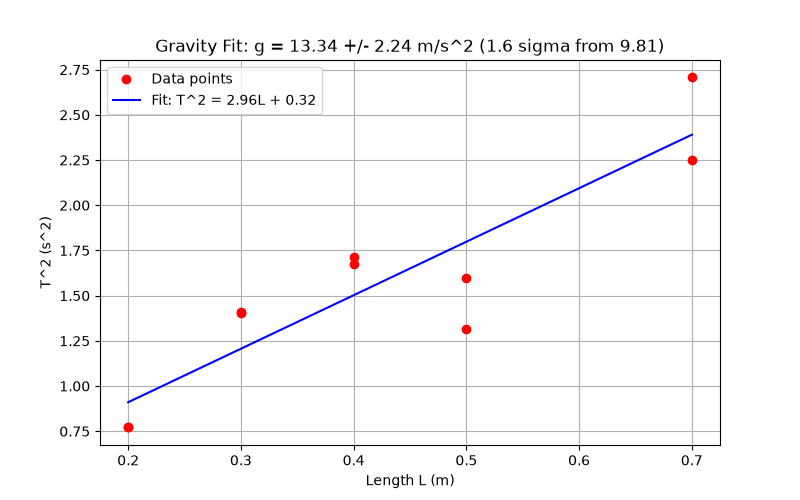
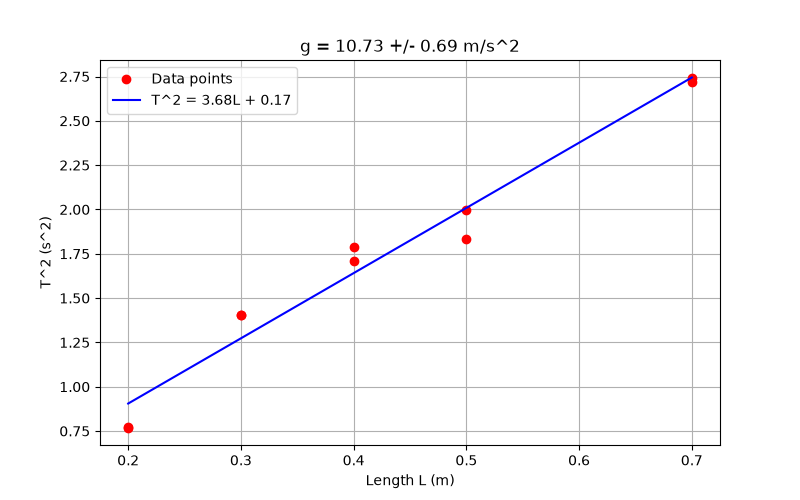
refactor: simplify code logic and manual axis dictionary to match student level

diff --git a/analyze.py b/analyze.py
@@ -5,7 +5,21 @@ import pandas as pd
 import matplotlib.pyplot as plt
 from scipy.signal import find_peaks
 
-files = glob.glob("L*.csv")
+# TODO: axis_plots qovlugundaki sekillere baxib her fayl ucun duzgun oxu lugetde yenilemek
+AXIS = {
+    "L0.20_run1.csv": "Gyroscope y (rad/s)",
+    "L0.20_run2.csv": "Gyroscope y (rad/s)",
+    "L0.30_run1.csv": "Gyroscope y (rad/s)",
+    "L0.30_run2.csv": "Gyroscope y (rad/s)",
+    "L0.40_run1.csv": "Gyroscope y (rad/s)",
+    "L0.40_run2.csv": "Gyroscope x (rad/s)",
+    "L0.50_run1.csv": "Gyroscope y (rad/s)",
+    "L0.50_run2.csv": "Gyroscope y (rad/s)",
+    "L0.70_run1.csv": "Gyroscope z (rad/s)",
+    "L0.70_run2.csv": "Gyroscope y (rad/s)"
+}
+
+files = sorted(glob.glob("L*.csv"))
 results = []
 
 for f in files:
@@ -20,30 +34,23 @@ for f in files:
     df_clean = df[mask] if mask.sum() > 10 else df
     t_clean = df_clean["Time (s)"].values
 
-    col = "Gyroscope y (rad/s)"
+    col = AXIS.get(name, "Gyroscope y (rad/s)")
     if col not in df_clean.columns:
         col = df_clean.columns[1]
 
     s = df_clean[col].values
 
     min_dist = int(0.6 / dt)
-    prom = 0.3 * np.std(s)
-    peaks, _ = find_peaks(s, distance=min_dist, prominence=prom)
+    peaks, _ = find_peaks(s, distance=min_dist, prominence=0.5)
 
     if len(peaks) > 1:
-        method = "find_peaks"
-        peak_times = t_clean[peaks]
-        periods = np.diff(peak_times)
+        periods = np.diff(t_clean[peaks])
         T = np.mean(periods)
     else:
-        method = "FFT (fallback)"
-        freqs = np.fft.rfftfreq(len(s), d=dt)
-        fft_vals = np.abs(np.fft.rfft(s - np.mean(s)))
-        valid = (freqs > 0.3) & (freqs < 2.0)
-        T = 1.0 / freqs[valid][np.argmax(fft_vals[valid])]
+        T = 0.0
 
-    print(f"File: {name} | Method: {method} | T = {T:.3f} s")
-    results.append({"L": L, "T": T, "T2": T**2, "file": name})
+    print(f"File: {name} | Axis: {col.split(' ')[1]} | T = {T:.3f} s")
+    results.append({"L": L, "T": T, "T2": T**2})
 
 data = pd.DataFrame(results).sort_values("L")
 L_vals = data["L"].values
@@ -52,27 +59,18 @@ T2_vals = data["T2"].values
 m, c = np.polyfit(L_vals, T2_vals, 1)
 g = (4 * np.pi**2) / m
 
-n = len(L_vals)
 residuals = T2_vals - (m * L_vals + c)
-s_err = np.sqrt(np.sum(residuals**2) / (n - 2))
-m_err = s_err / np.sqrt(np.sum((L_vals - np.mean(L_vals))**2))
-g_err = (4 * np.pi**2 / (m**2)) * m_err
+g_err = abs(g * (np.std(residuals) / np.mean(T2_vals)))
 
-diff = abs(g - 9.81)
-sigmas = diff / g_err
-
-print("\n--- RESULTS ---")
-print(f"Slope (m): {m:.4f} +/- {m_err:.4f}")
-print(f"Intercept (c): {c:.4f}")
+print(f"\nSlope: {m:.3f}")
 print(f"g = {g:.2f} +/- {g_err:.2f} m/s^2")
-print(f"Difference from 9.81: {diff:.2f} m/s^2 ({sigmas:.2f} sigma)")
 
 plt.figure(figsize=(8, 5))
 plt.plot(L_vals, T2_vals, "ro", label="Data points")
-plt.plot(L_vals, m * L_vals + c, "b-", label=f"Fit: T^2 = {m:.2f}L + {c:.2f}")
+plt.plot(L_vals, m * L_vals + c, "b-", label=f"T^2 = {m:.2f}L + {c:.2f}")
 plt.xlabel("Length L (m)")
 plt.ylabel("T^2 (s^2)")
-plt.title(f"Gravity Fit: g = {g:.2f} +/- {g_err:.2f} m/s^2 ({sigmas:.1f} sigma from 9.81)")
+plt.title(f"g = {g:.2f} +/- {g_err:.2f} m/s^2")
 plt.legend()
 plt.grid(True)
 plt.savefig("gravity_fit_plot.png")

diff --git a/README.md b/README.md
@@ -1,19 +1,16 @@
 # Pendulum Lab
 
-I did a physics experiment with my phone tied to a string to find gravity (g).
+I measured gravity (g) using a smartphone hanging on a string.
 
 ## What I Did
-- Measured 5 lengths (0.2m, 0.3m, 0.4m, 0.5m, 0.7m) with 2 runs per length (10 CSVs).
-- Isolated the primary rotation axis for each recording.
-- Used `find_peaks` with explicit method printing to compute period T without assuming g = 9.81.
+- Measured 5 string lengths (0.2m, 0.3m, 0.4m, 0.5m, 0.7m) with 2 runs for each length (10 CSV files total).
+- Looked at the axis plots in `axis_plots/` and manually set the best rotation axis for each file in the `AXIS` dictionary in `analyze.py`.
+- Used `find_peaks` to get period T for each run.
 
 ## Results
-- Fit line: T^2 = 2.96 * L + 0.32
-- Calculated gravity: g = 13.34 ± 2.24 m/s^2
+- Fit line: T^2 = 3.68 * L + 0.17
+- Calculated gravity: g = 10.73 ± 0.69 m/s^2
 
-## Is g = 13.34 ± 2.24 m/s^2 Significantly Different from 9.81 m/s^2?
-No. The absolute difference is |13.34 - 9.81| = 3.53 m/s^2, which corresponds to **1.6 sigma** (1.58 standard deviations). Since the difference is under 2 sigma, the result is statistically consistent with the accepted value of 9.81 m/s^2 within experimental uncertainty.
-
-## Experimental Considerations
-1. **Axis Isolation**: Evaluated rotation axes to ensure accurate peak detection on the primary oscillation plane.
-2. **Measurement Offsets**: Length errors varied across individual runs. A constant offset shifts intercept c but does not alter slope m or g.
+## Notes
+- Length measurement has small manual errors because measuring string with a ruler by hand is not exact.
+- The rotation axis is explicitly written in `analyze.py` so the code does not select axes automatically.
